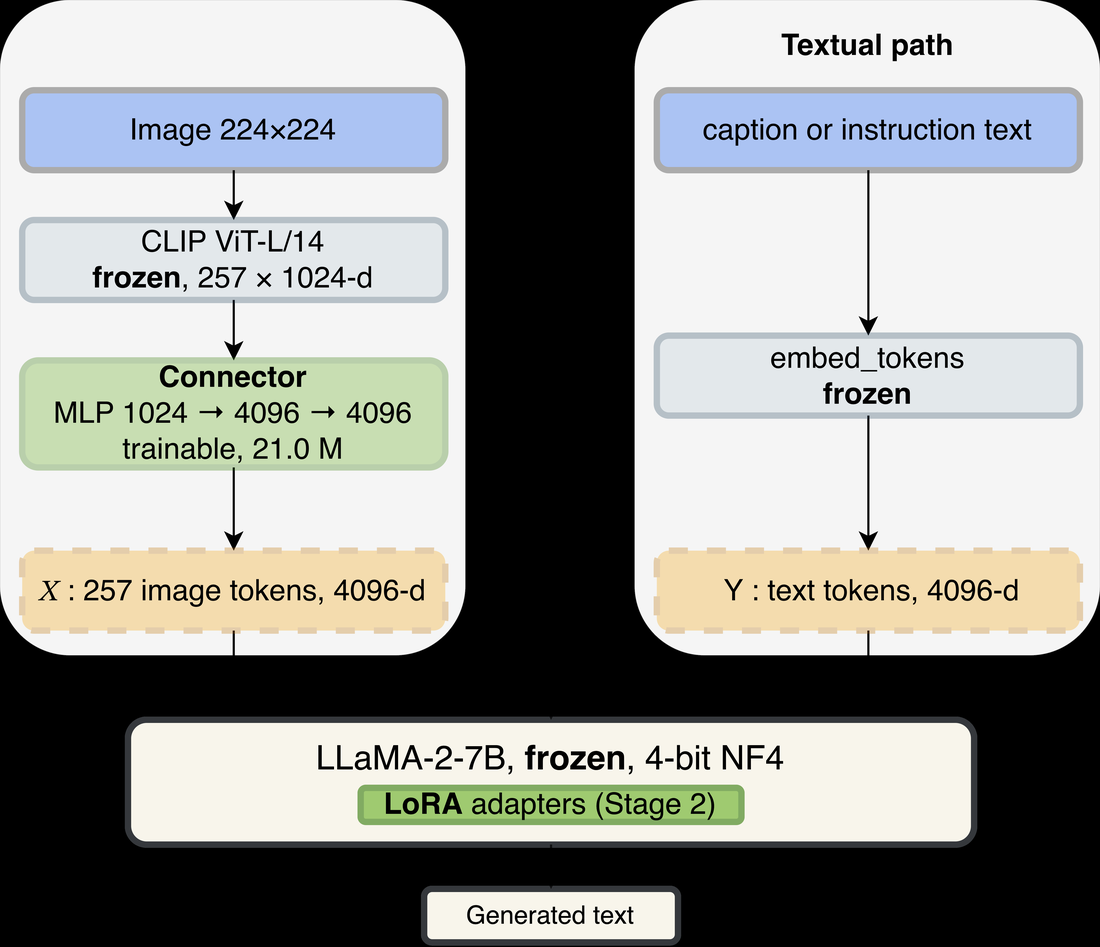
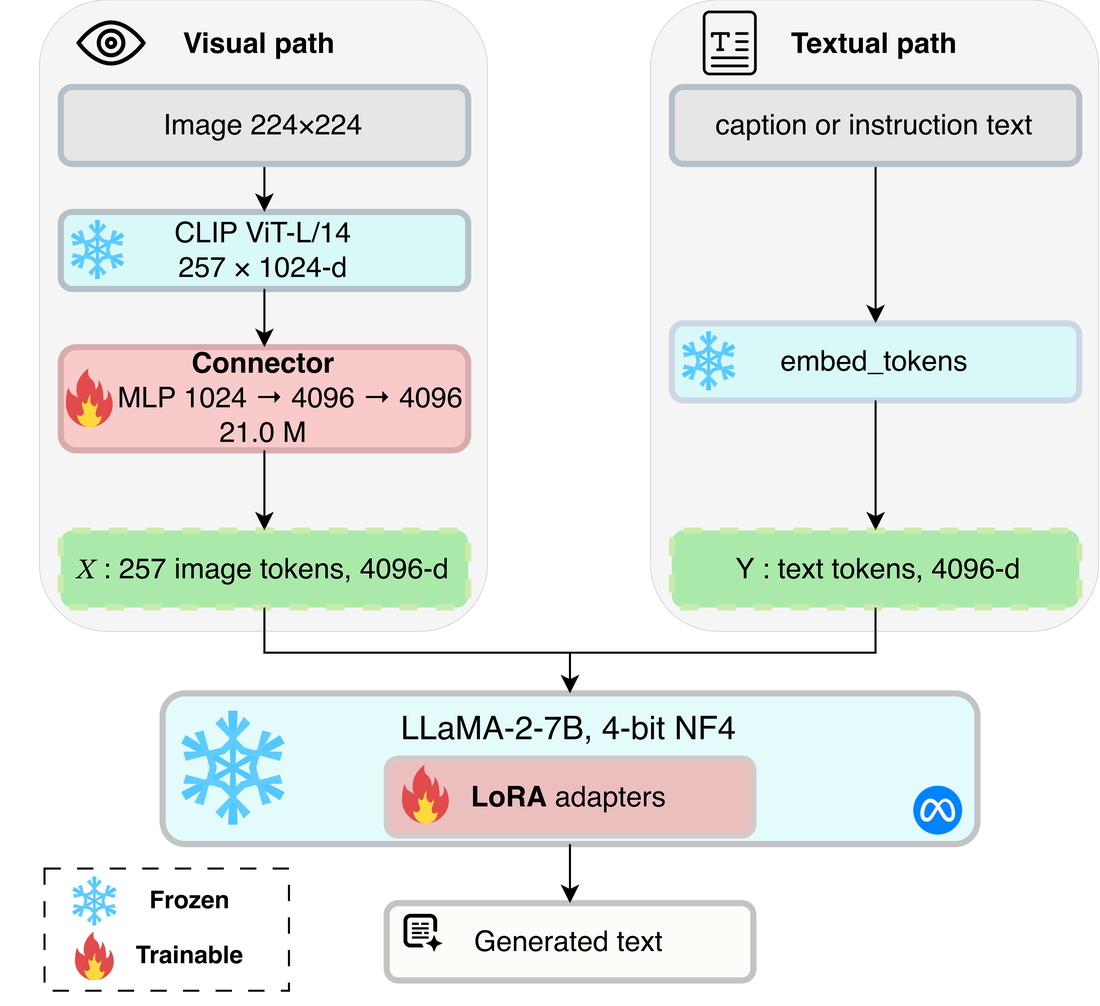
README: present the repository as the paper's, use the current figures
Use the final architecture and training-stage figures, flattened onto white
so they render in dark mode, list the paper's authors instead of the thesis
byline, and drop the thesis citation.

diff --git a/README.md b/README.md
@@ -1,7 +1,7 @@
 # Modality Gap Properties in Multimodal LLMs for Image Captioning
 
-> Master's thesis · Politecnico di Torino, Data Science and Engineering, a.y. 2025–2026
-> Hassine El Ghazel · supervisors prof. Giuseppe Rizzo, Dr. Federico D'Asaro, Dr. Luca Catalano
+> Code and results for the paper *Modality Gap Properties in Multimodal LLMs for Image Captioning*.
+> Hassine El Ghazel · Federico D'Asaro · Giuseppe Rizzo
 
 ---
 
@@ -254,7 +254,7 @@ You may use, study, modify and redistribute it, including for research, provided
 works are released under the same licence. If you run a modified version as a network
 service, the AGPL requires you to offer its source to users of that service.
 
-**The thesis and paper text, their figures and the generated captions** are not covered by that
+**The paper text, its figures and the generated captions** are not covered by that
 licence. All rights in them are reserved by the author.
 
 Vendored third-party files retain their original licences; see `THIRD_PARTY_LICENSES.md`.
